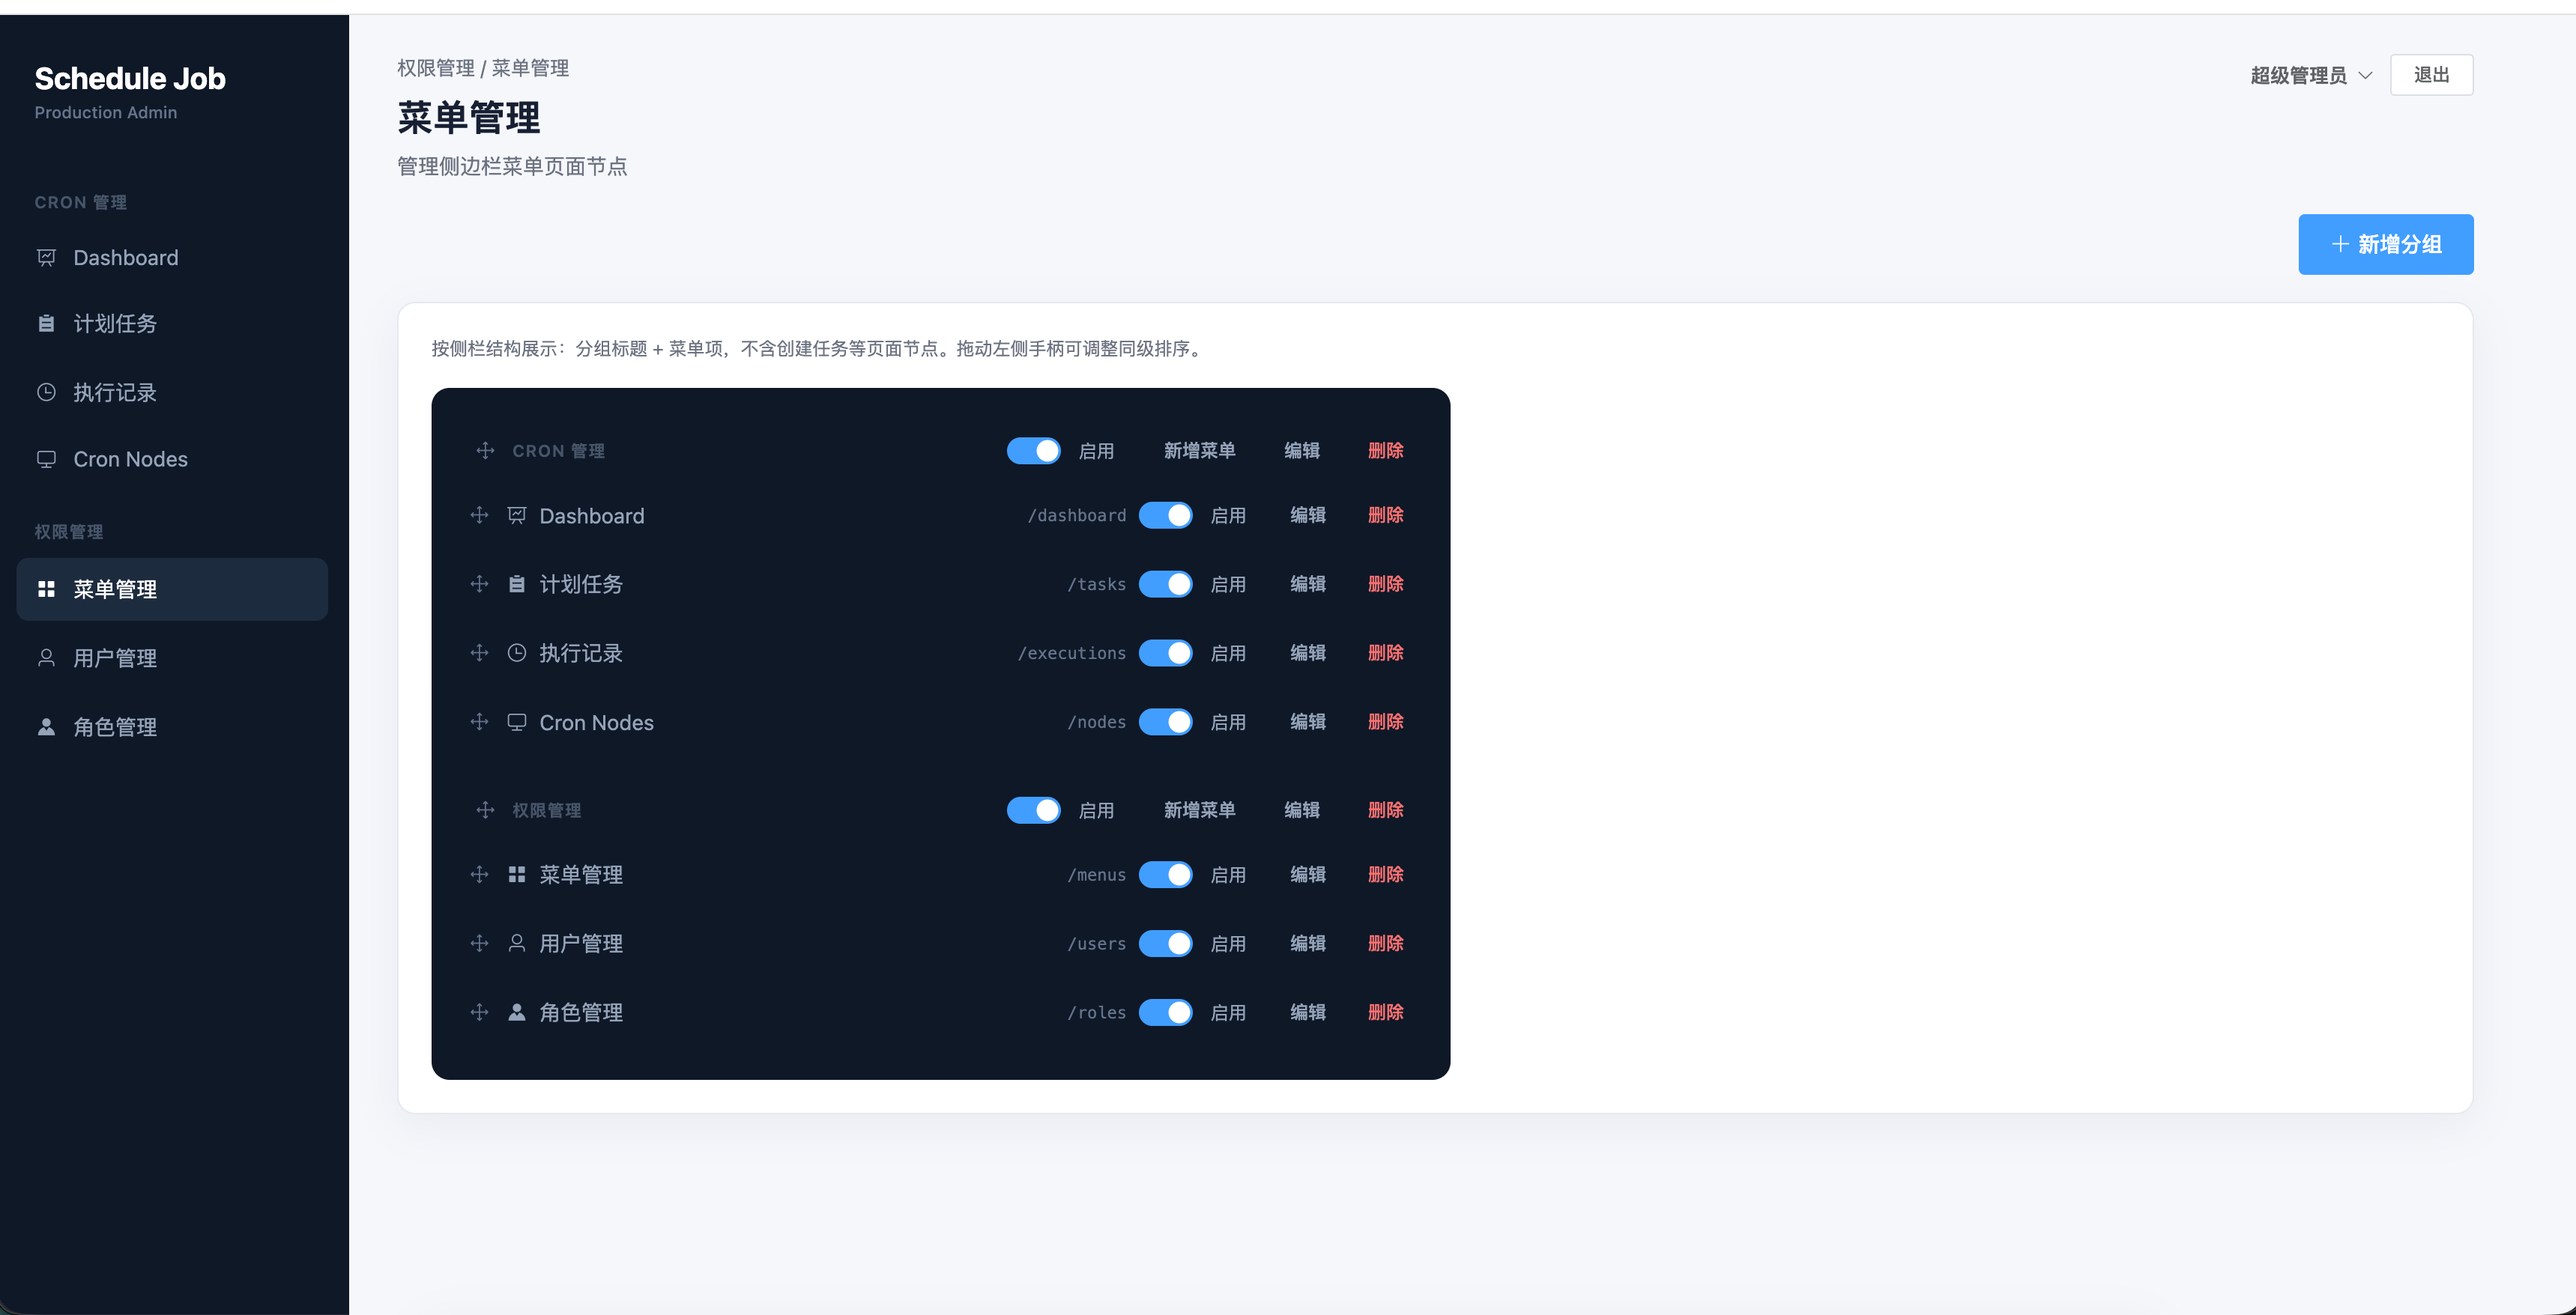
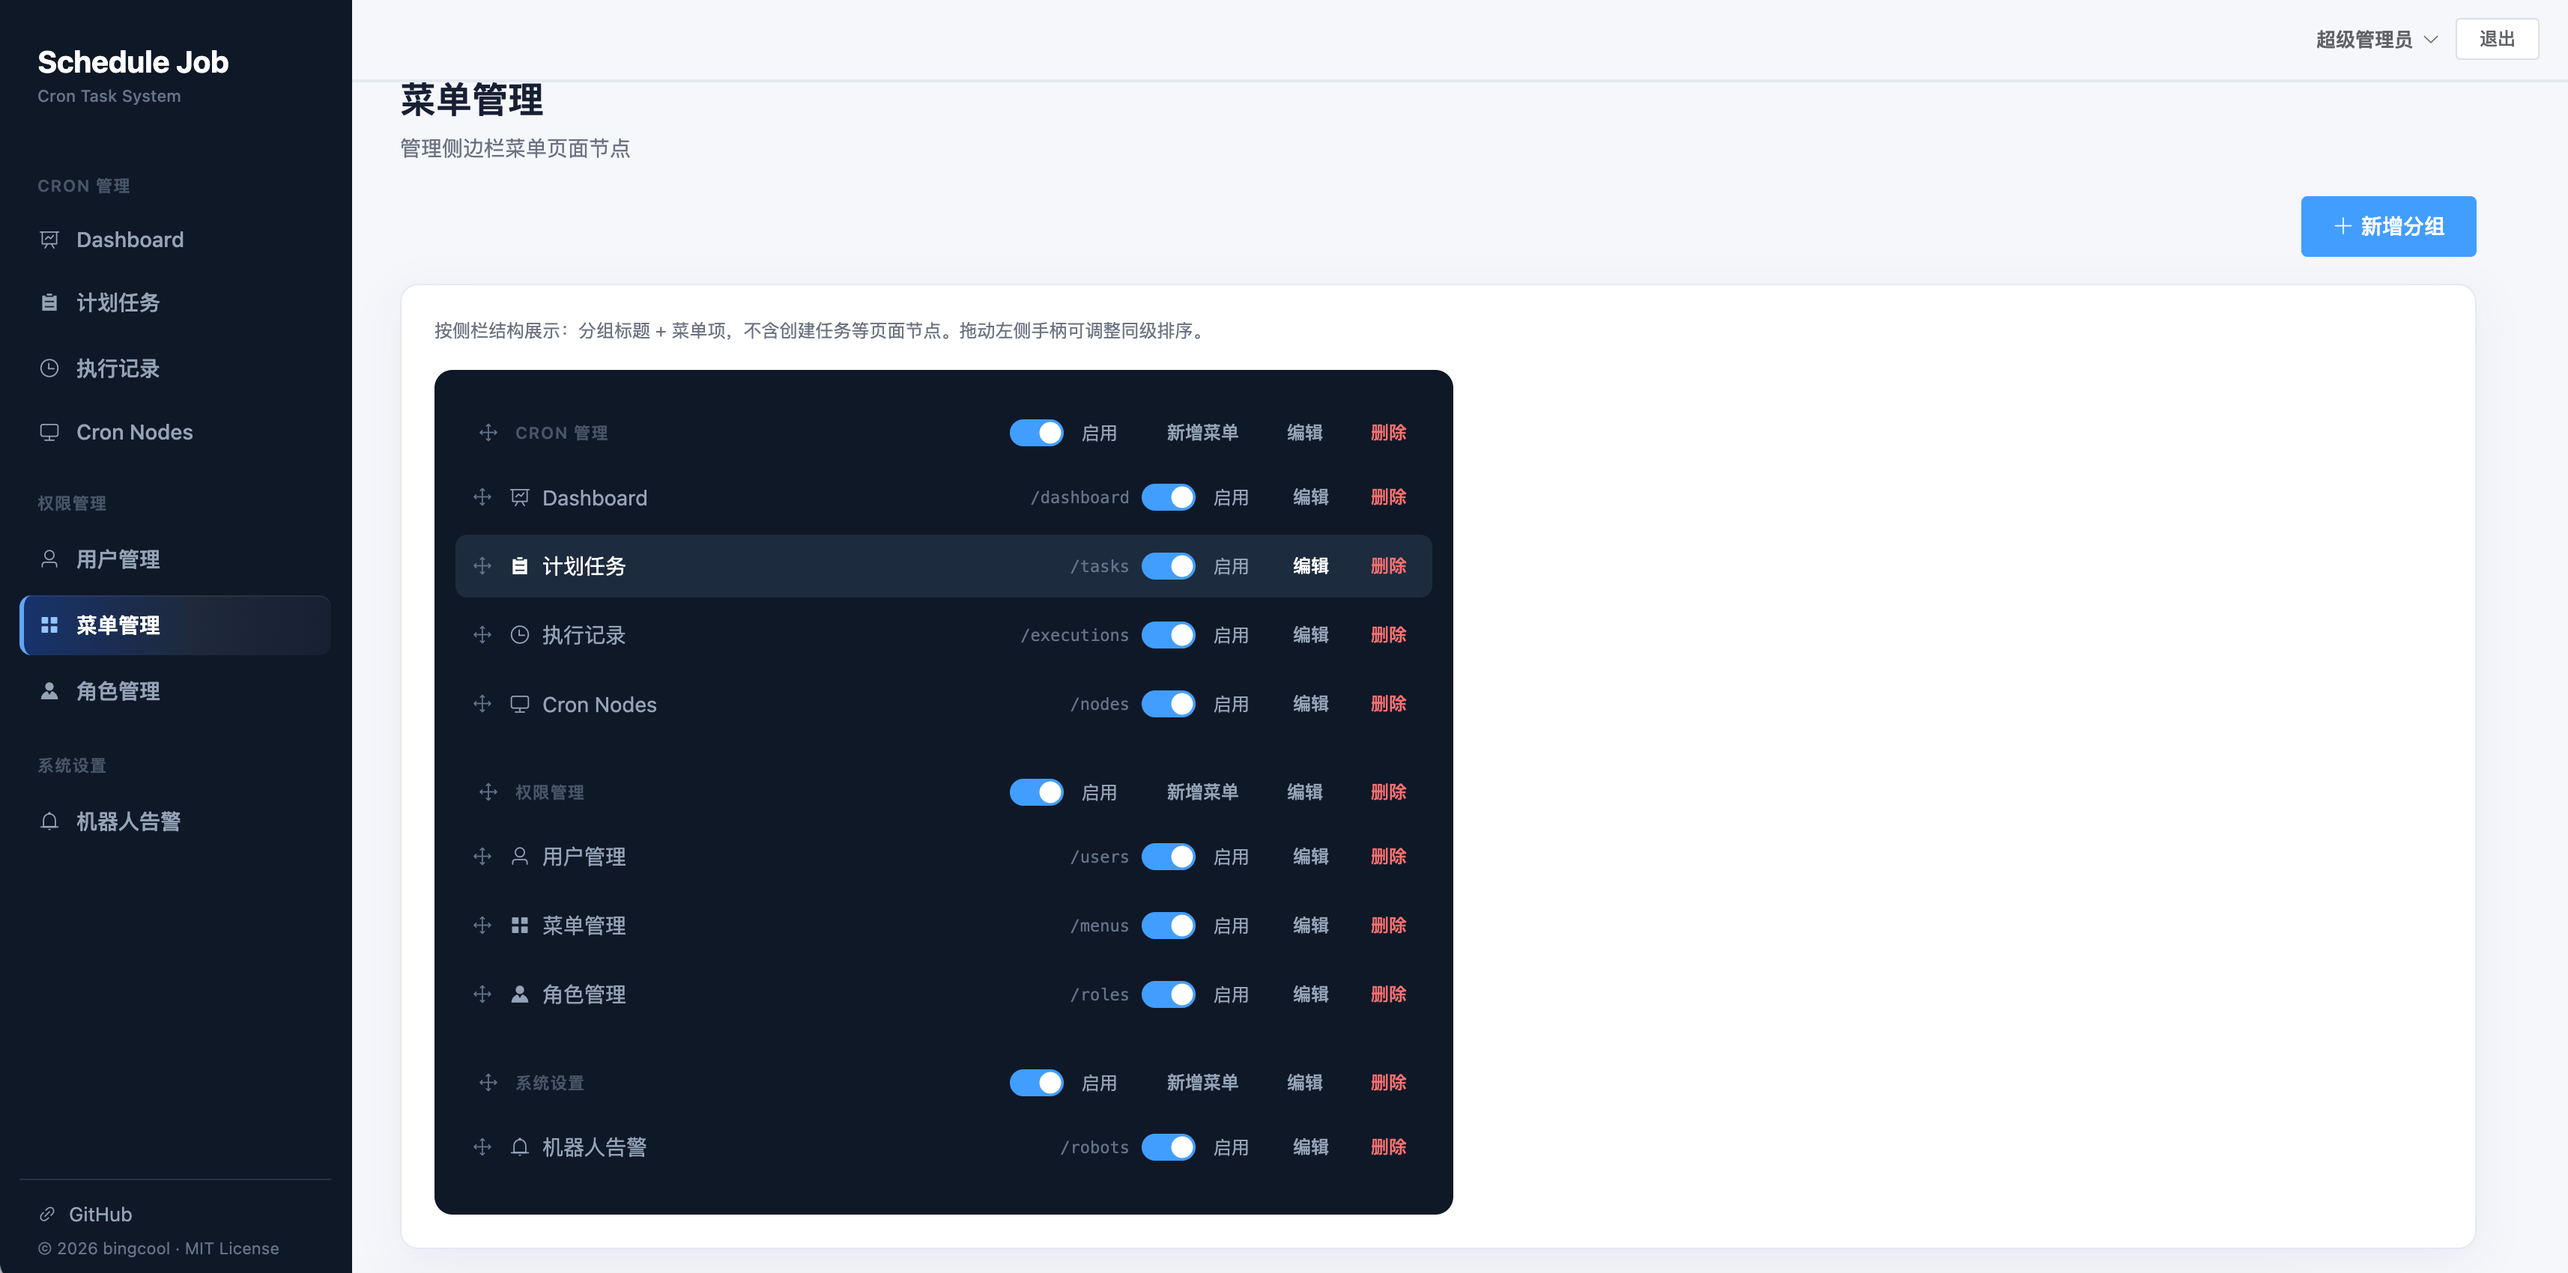
添加截图

diff --git a/README.md b/README.md
@@ -394,6 +394,7 @@ HTTP 服务默认暴露（可在 `App/Config/health.php` 调整）：
 | 操作记录 | `#/tasks/operation-logs` | 任务变更审计 |
 | 执行记录 | `#/executions` | 按任务 / 状态 / 批次筛选 |
 | Cron Nodes | `#/nodes` | 节点与分组管理 |
+| 机器人告警 | `#/robots` | 企微 / 钉钉 / 飞书群机器人，节点组绑定后失败/超时告警 |
 | Runtime | `#/runtime` | Worker 运行时概览 |
 | 用户 / 角色 / 菜单 | `#/users` 等 | RBAC 管理 |
 
@@ -401,55 +402,31 @@ HTTP 服务默认暴露（可在 `App/Config/health.php` 调整）：
 
 ## 界面截图
 
-以下为管理台主要页面预览（截图位于 [`docs/`](docs/) 目录）。
+以下为管理台主要页面预览（截图位于 [`docs/images/`](docs/images/)）。
 
-### Dashboard
-
-任务统计、今日执行趋势与节点心跳概览。
-
-![Dashboard](docs/images/dashboard.png)
-
-### 计划任务
+### 计划任务列表
 
 任务列表：筛选、启停、手动执行、创建人过滤等。
 
-![计划任务列表](docs/images/tasklist.png)
+![计划任务列表](docs/images/cronlist.png)
 
-### 创建 / 编辑任务
+### 创建 / 编辑计划任务
 
 配置 Cron 表达式、执行方式（Shell / HTTP / Kubernetes）、节点、重试与阻塞策略等。
 
-![编辑计划任务](docs/images/edittask.png)
+![创建计划任务](docs/images/createcron.png)
 
 ### 执行记录
 
-按任务、状态、批次查看 Execution，可进入单次执行详情。
+按任务、状态、批次查看 Execution，可进入单次执行详情与日志。
 
-![执行记录](docs/images/log.png)
+![执行记录](docs/images/cronrecord.png)
 
-### Cron Nodes
+### 机器人告警
 
-Agent 节点与分组管理、心跳状态查看。
+配置企微 / 钉钉 / 飞书 Webhook；在 **Cron Nodes → 节点分组** 绑定后，组内任务失败或超时（非取消）向对应群机器人发告警。
 
-![Cron Nodes](docs/images/node.png)
-
-### 用户管理
-
-管理系统用户、角色分配与节点组授权。
-
-![用户管理](docs/images/user.png)
-
-### 角色管理
-
-定义角色、配置菜单页面权限；系统内置角色（超管、编辑任务组）不可删除。
-
-![角色管理](docs/images/role.png)
-
-### 菜单管理
-
-维护侧栏菜单结构，支持分组与排序。
-
-![菜单管理](docs/images/menu.png)
+![机器人告警](docs/images/robot.png)
 
 ---
 
